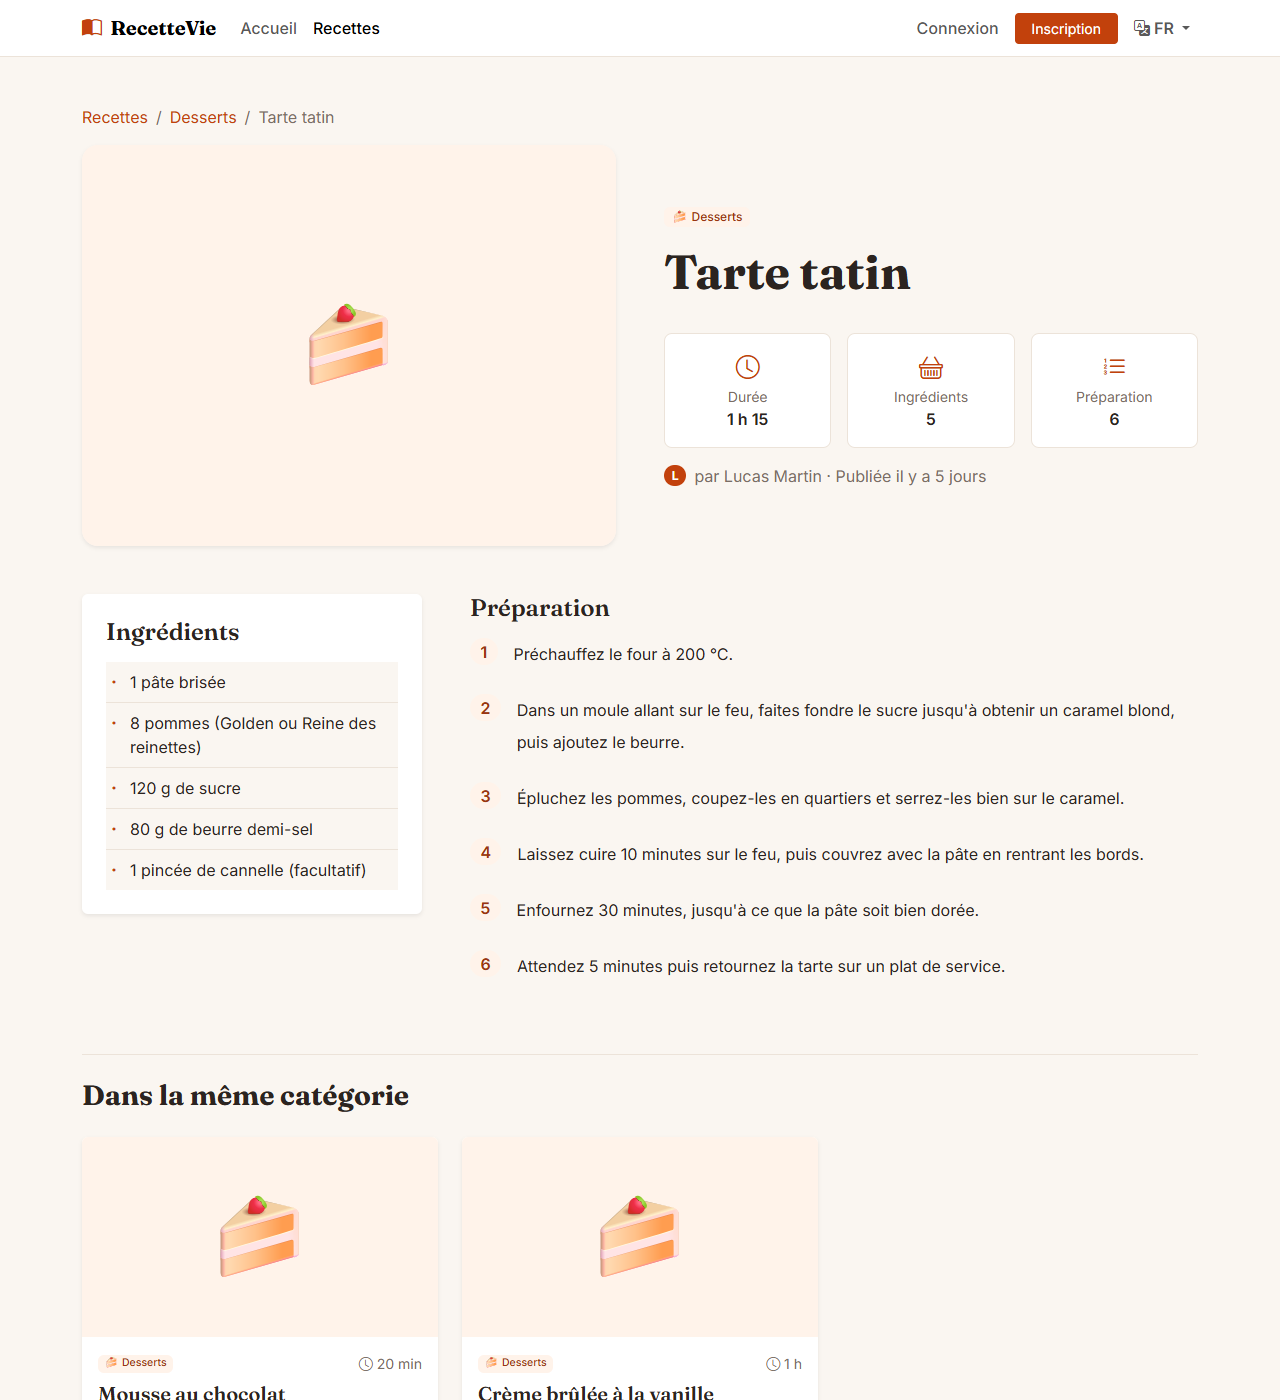
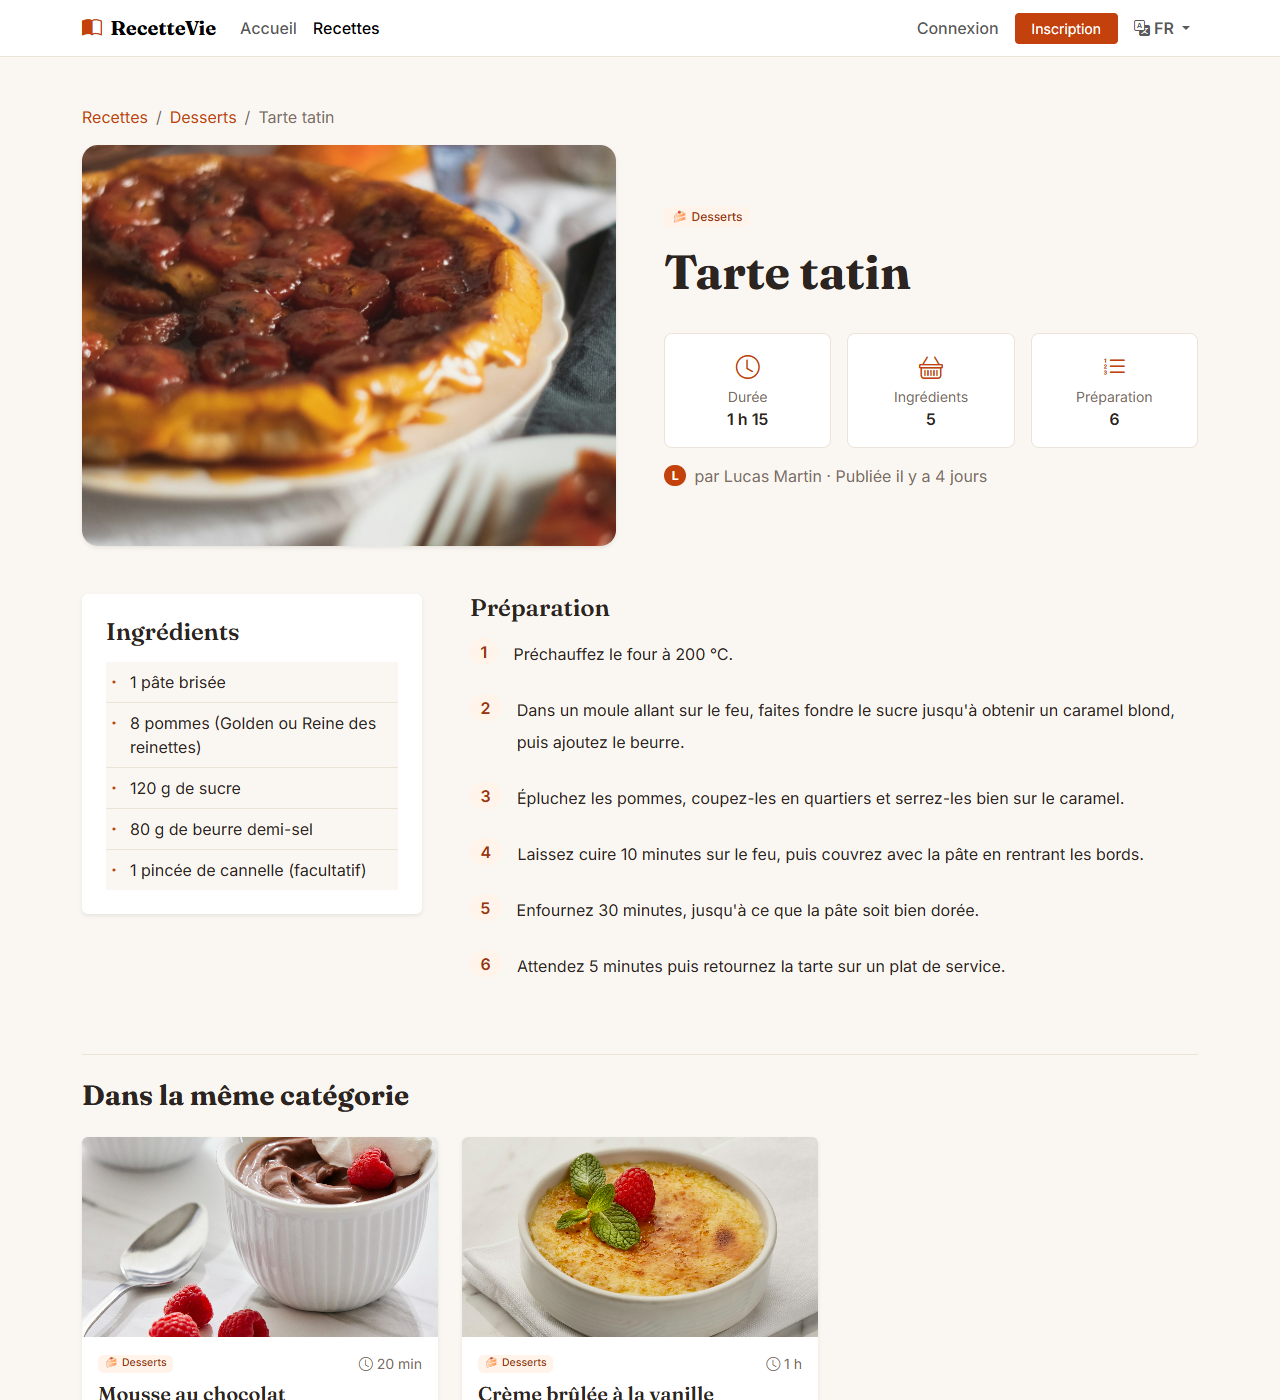
Add real photos to the demo recipes

Changed region(s): [[0.0625, 0.0921, 0.5, 0.3993], [0.0625, 0.7986, 0.6562, 0.9521]]

diff --git a/src/DataFixtures/AppFixtures.php b/src/DataFixtures/AppFixtures.php
@@ -7,7 +7,10 @@ use App\Entity\Recipe;
 use App\Entity\User;
 use Doctrine\Bundle\FixturesBundle\Fixture;
 use Doctrine\Persistence\ObjectManager;
+use Symfony\Component\DependencyInjection\Attribute\Autowire;
+use Symfony\Component\Filesystem\Filesystem;
 use Symfony\Component\PasswordHasher\Hasher\UserPasswordHasherInterface;
+use Symfony\Component\String\Slugger\AsciiSlugger;
 
 /**
  * Demo data: php bin/console doctrine:fixtures:load
@@ -31,8 +34,11 @@ class AppFixtures extends Fixture
         'boissons' => ['Boissons', '🍹', '#d5e8f0'],
     ];
 
-    public function __construct(private readonly UserPasswordHasherInterface $hasher)
-    {
+    public function __construct(
+        private readonly UserPasswordHasherInterface $hasher,
+        #[Autowire('%kernel.project_dir%')]
+        private readonly string $projectDir,
+    ) {
     }
 
     public function load(ObjectManager $manager): void
@@ -66,11 +72,29 @@ class AppFixtures extends Fixture
                 ->setContentEn(implode("\n", $stepsEn))
                 ->setUser($authors[$i % 2])
                 ->setCreatedAt($createdAt)
-                ->setUpdatedAt($createdAt);
+                ->setUpdatedAt($createdAt)
+                ->setImageName($this->copyPhoto($title));
             $manager->persist($recipe);
         }
 
         $manager->flush();
+    }
+
+    /**
+     * Copies the demo photo (fixtures/images/<slug>.jpg, from Unsplash) into the uploads folder,
+     * so deleting a demo recipe never deletes the original.
+     */
+    private function copyPhoto(string $title): ?string
+    {
+        $fileName = (new AsciiSlugger())->slug($title)->lower()->toString().'.jpg';
+        $source = $this->projectDir.'/fixtures/images/'.$fileName;
+        if (!is_file($source)) {
+            return null;
+        }
+
+        (new Filesystem())->copy($source, $this->projectDir.'/public/uploads/recipes/'.$fileName, true);
+
+        return $fileName;
     }
 
     /**

diff --git a/router.php b/router.php
@@ -1,0 +1,15 @@
+<?php
+
+/*
+ * Router for PHP's built-in server (local development only):
+ *   php -S 127.0.0.1:8000 -t public router.php
+ * Real files (uploaded photos) are served as they are, everything else goes to Symfony.
+ */
+$path = parse_url($_SERVER['REQUEST_URI'], PHP_URL_PATH);
+if ('/' !== $path && is_file(__DIR__.'/public'.$path)) {
+    return false;
+}
+
+$_SERVER['SCRIPT_FILENAME'] = __DIR__.'/public/index.php';
+
+return require __DIR__.'/public/index.php';

diff --git a/README.md b/README.md
@@ -154,7 +154,7 @@ composer install
 php bin/console doctrine:database:create
 php bin/console doctrine:migrations:migrate -n
 php bin/console doctrine:fixtures:load -n
-php -S 127.0.0.1:8000 -t public public/index.php
+php -S 127.0.0.1:8000 -t public router.php
 ```
 
 Then open http://127.0.0.1:8000 and log in with one of the demo accounts. They all use the password `password`:
@@ -179,6 +179,26 @@ Without a DeepL key, authors write both languages themselves.
 ```bash
 php bin/phpunit
 ```
+
+## Photo credits
+
+The demo recipe photos come from [Unsplash](https://unsplash.com) (free [Unsplash License](https://unsplash.com/license)). They are stored in `fixtures/images` and copied into the uploads folder when the demo data is loaded.
+
+| Recipe | Photographer |
+|---|---|
+| Bœuf bourguignon | [Nathan Dumlao](https://unsplash.com/photos/JXYdIWqA5IM) |
+| Tarte tatin | [Diliara Garifullina](https://unsplash.com/photos/HHZ8g6Iy1yQ) |
+| Velouté de potimarron | [Cala](https://unsplash.com/photos/w6ftFbPCs9I) |
+| Ratatouille provençale | [Marjan Sadeghi](https://unsplash.com/photos/3vDJ--i7w88) |
+| Pain maison à la cocotte | [Diego Arenas de Rodrigo](https://unsplash.com/photos/guFjW-4kjCc) |
+| Mousse au chocolat | [American Heritage Chocolate](https://unsplash.com/photos/YxjIO0LmDO0) |
+| Poulet basquaise | [Raman](https://unsplash.com/photos/jjoyL1hk1Vo) |
+| Citronnade maison à la menthe | [Jake Charles](https://unsplash.com/photos/O9Whoh12czM) |
+| Quiche lorraine | [Diego Arenas de Rodrigo](https://unsplash.com/photos/qr-8HqqjqGQ) |
+| Curry de pois chiches | [Álvaro Bernal](https://unsplash.com/photos/ReySmTMcKEQ) |
+| Crêpes de la Chandeleur | [Husien Bisky](https://unsplash.com/photos/emeBtLURIjI) |
+| Gratin dauphinois | [Some Tale](https://unsplash.com/photos/lqRfdLcZm_w) |
+| Crème brûlée à la vanille | [Orkun Orcan](https://unsplash.com/photos/xQFLBRdch_k) |
 
 ## Author
 
